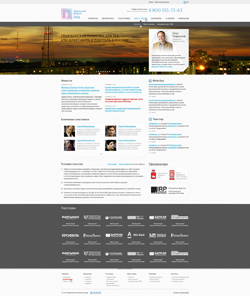
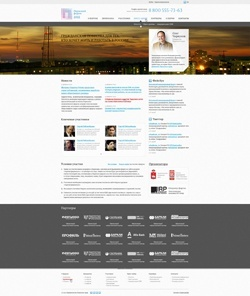
resume fix

diff --git a/resume/index.html b/resume/index.html
@@ -13,8 +13,6 @@
       <script src="https://oss.maxcdn.com/html5shiv/3.7.2/html5shiv.min.js"></script>
       <script src="https://oss.maxcdn.com/respond/1.4.2/respond.min.js"></script>
     <![endif]-->
-    
-
 	<title>Oxana portfolio</title>
 </head>
 <body>
@@ -409,32 +407,56 @@
 					Мои последние работы
 				</h4>
 				<div class="row">
-					<a href="http://f0002611.xsph.ru/santa_bremor/index.html" class="project__layout">
-						<img src="images/santa_bremor.jpg" class="image__inner" alt="Ноутбук" />
+					<a href="http://zolberg.ru" class="project__layout">
+						<img src="images/zolberg_site.jpg" class="image__inner" alt="Пивной клуб" />
 						<div class="project__overlay">
 							<div class="project_name project_name__inside project_name__inside_top">
-								Санта-Бремор
+								Пивной клуб "Золберг"
 							</div>
 							<div class="text-separator animated"></div>
 							<div class="project_name project_name__inside project_name__inside_bottom">
-								Demo
+								Real site
 							</div>
 						</div>
 					</a>
-					<a href="http://f0002611.xsph.ru/perm_forum/index.html" class="project__layout">
-						<img src="images/perm_forum.jpg" class="image__inner" alt="Ноутбук" />
+					<a href="http://тверьаренда.рф" class="project__layout">
+						<img src="images/tver_arenda.jpg" class="image__inner" alt="Аренда в Твери" />
 						<div class="project__overlay">
 							<div class="project_name project_name__inside project_name__inside_top">
-								Пермский форум
+								Аренда в Твери
 							</div>
 							<div class="text-separator animated"></div>
 							<div class="project_name project_name__inside project_name__inside_bottom">
-								Demo
+								Real site
+							</div>
+						</div>
+					</a>
+					<a href="http://melamin77.ru" class="project__layout">
+						<img src="images/melamine_site.jpg" class="image__inner" alt="Melamin77" />
+						<div class="project__overlay">
+							<div class="project_name project_name__inside project_name__inside_top">
+								Меламин
+							</div>
+							<div class="text-separator animated"></div>
+							<div class="project_name project_name__inside project_name__inside_bottom">
+								Real site
+							</div>
+						</div>
+					</a>
+					<a href="http://mastertatiana.ru" class="project__layout">
+						<img src="images/gift_shop.jpg" class="image__inner" alt="Сувениры от Татьяны" />
+						<div class="project__overlay">
+							<div class="project_name project_name__inside project_name__inside_top">
+								Мастерская сувениров
+							</div>
+							<div class="text-separator animated"></div>
+							<div class="project_name project_name__inside project_name__inside_bottom">
+								Real site
 							</div>
 						</div>
 					</a>
 					<a href="http://f0002611.xsph.ru/club_white/index.html" class="project__layout">
-						<img src="images/club_white.jpg" class="image__inner" alt="Ноутбук" />
+						<img src="images/club_white.jpg" class="image__inner" alt="Клуб white" />
 						<div class="project__overlay">
 							<div class="project_name project_name__inside project_name__inside_top">
 								Клуб "White"
@@ -445,15 +467,27 @@
 							</div>
 						</div>
 					</a>
-					<a href="http://mastertatiana.ru" class="project__layout">
-						<img src="images/gift_shop.jpg" class="image__inner" alt="Ноутбук" />
+					<a href="http://f0002611.xsph.ru/perm_forum/index.html" class="project__layout">
+						<img src="images/perm_forum.jpg" class="image__inner" alt="Пермский форум" />
 						<div class="project__overlay">
 							<div class="project_name project_name__inside project_name__inside_top">
-								Мастерская сувениров
+								Пермский форум
 							</div>
 							<div class="text-separator animated"></div>
 							<div class="project_name project_name__inside project_name__inside_bottom">
-								Real site
+								Demo
+							</div>
+						</div>
+					</a>
+					<a href="http://f0002611.xsph.ru/santa_bremor/index.html" class="project__layout">
+						<img src="images/santa_bremor.jpg" class="image__inner" alt="Ноутбук" />
+						<div class="project__overlay">
+							<div class="project_name project_name__inside project_name__inside_top">
+								Санта-Бремор
+							</div>
+							<div class="text-separator animated"></div>
+							<div class="project_name project_name__inside project_name__inside_bottom">
+								Demo
 							</div>
 						</div>
 					</a>

diff --git a/resume/css/style.css b/resume/css/style.css
@@ -115,6 +115,88 @@
   font-style: normal;
   font-weight: normal;
 }
+* {
+  margin: 0;
+  padding: 0;
+  list-style: none;
+  border: none;
+}
+html {
+  font-size: 10px;
+}
+body {
+  font-family: "VDSCompensatedLight";
+  font-weight: 100;
+  font-size: 16px;
+}
+a {
+  text-decoration: none;
+}
+a:hover {
+  text-decoration: none;
+  color: #333;
+}
+#page {
+  overflow-x: hidden;
+}
+.container-fluid {
+  padding: 0;
+}
+.container {
+  min-width: 320px;
+  max-width: 1170px;
+  padding: 5rem 0 0 15%;
+  margin: 0 auto;
+}
+.row {
+  display: -webkit-box;
+  display: -webkit-flex;
+  display: -ms-flexbox;
+  display: flex;
+  -webkit-justify-content: flex-start;
+  -ms-flex-pack: flex-start;
+  justify-content: flex-start;
+  -webkit-flex-flow: row wrap;
+  -ms-flex-flow: row wrap;
+  flex-flow: row wrap;
+  margin: 0 0 5rem;
+}
+.wrapper {
+  display: -webkit-box;
+  display: -webkit-flex;
+  display: -ms-flexbox;
+  display: flex;
+  -webkit-justify-content: center;
+  -ms-flex-pack: center;
+  justify-content: center;
+  -webkit-flex-flow: column wrap;
+  -ms-flex-flow: column wrap;
+  flex-flow: column wrap;
+  -webkit-box-align: center;
+  -webkit-align-items: center;
+  -ms-flex-align: center;
+  align-items: center;
+}
+/*Заголовки*/
+.title {
+  font-weight: 700;
+}
+.title_small {
+  padding: 1rem 0;
+}
+.title_middle {
+  color: #5997c6;
+  font-size: 2.6rem;
+  margin: 2rem 0 5rem 0;
+  -webkit-box-flex: 1;
+  -webkit-flex: 1 1 100%;
+  -ms-flex: 1 1 100%;
+  flex: 1 1 100%;
+}
+.title_large {
+  color: #ffffff;
+  text-align: center;
+}
 /*Шапка*/
 .header {
   background-color: rgba(88, 12, 98, 0.25);
@@ -625,88 +707,6 @@ section#contacts .row .fa {
   font-weight: 700;
   margin: 2% 0 0 34%;
   background-color: #c2a7c6;
-}
-* {
-  margin: 0;
-  padding: 0;
-  list-style: none;
-  border: none;
-}
-html {
-  font-size: 10px;
-}
-body {
-  font-family: "VDSCompensatedLight";
-  font-weight: 100;
-  font-size: 16px;
-}
-a {
-  text-decoration: none;
-}
-a:hover {
-  text-decoration: none;
-  color: #333;
-}
-#page {
-  overflow-x: hidden;
-}
-.container-fluid {
-  padding: 0;
-}
-.container {
-  min-width: 320px;
-  max-width: 1170px;
-  padding: 5rem 0 0 15%;
-  margin: 0 auto;
-}
-.row {
-  display: -webkit-box;
-  display: -webkit-flex;
-  display: -ms-flexbox;
-  display: flex;
-  -webkit-justify-content: flex-start;
-  -ms-flex-pack: flex-start;
-  justify-content: flex-start;
-  -webkit-flex-flow: row wrap;
-  -ms-flex-flow: row wrap;
-  flex-flow: row wrap;
-  margin: 0 0 5rem;
-}
-.wrapper {
-  display: -webkit-box;
-  display: -webkit-flex;
-  display: -ms-flexbox;
-  display: flex;
-  -webkit-justify-content: center;
-  -ms-flex-pack: center;
-  justify-content: center;
-  -webkit-flex-flow: column wrap;
-  -ms-flex-flow: column wrap;
-  flex-flow: column wrap;
-  -webkit-box-align: center;
-  -webkit-align-items: center;
-  -ms-flex-align: center;
-  align-items: center;
-}
-/*Заголовки*/
-.title {
-  font-weight: 700;
-}
-.title_small {
-  padding: 1rem 0;
-}
-.title_middle {
-  color: #5997c6;
-  font-size: 2.6rem;
-  margin: 2rem 0 5rem 0;
-  -webkit-box-flex: 1;
-  -webkit-flex: 1 1 100%;
-  -ms-flex: 1 1 100%;
-  flex: 1 1 100%;
-}
-.title_large {
-  color: #ffffff;
-  text-align: center;
 }
 @media screen and (min-width: 1600px) {
   .header {

diff --git a/resume/css/style.less b/resume/css/style.less
@@ -1,7 +1,5 @@
 @import (reference) "mixin.less";
 @import "fonts.less";
-@import "header.less";
-@import "main.less";
 
 * {
 	margin: 0;
@@ -81,4 +79,6 @@ a {
 	text-align: center;
 }
 
+@import "header.less";
+@import "main.less";
 @import "screen.less";
